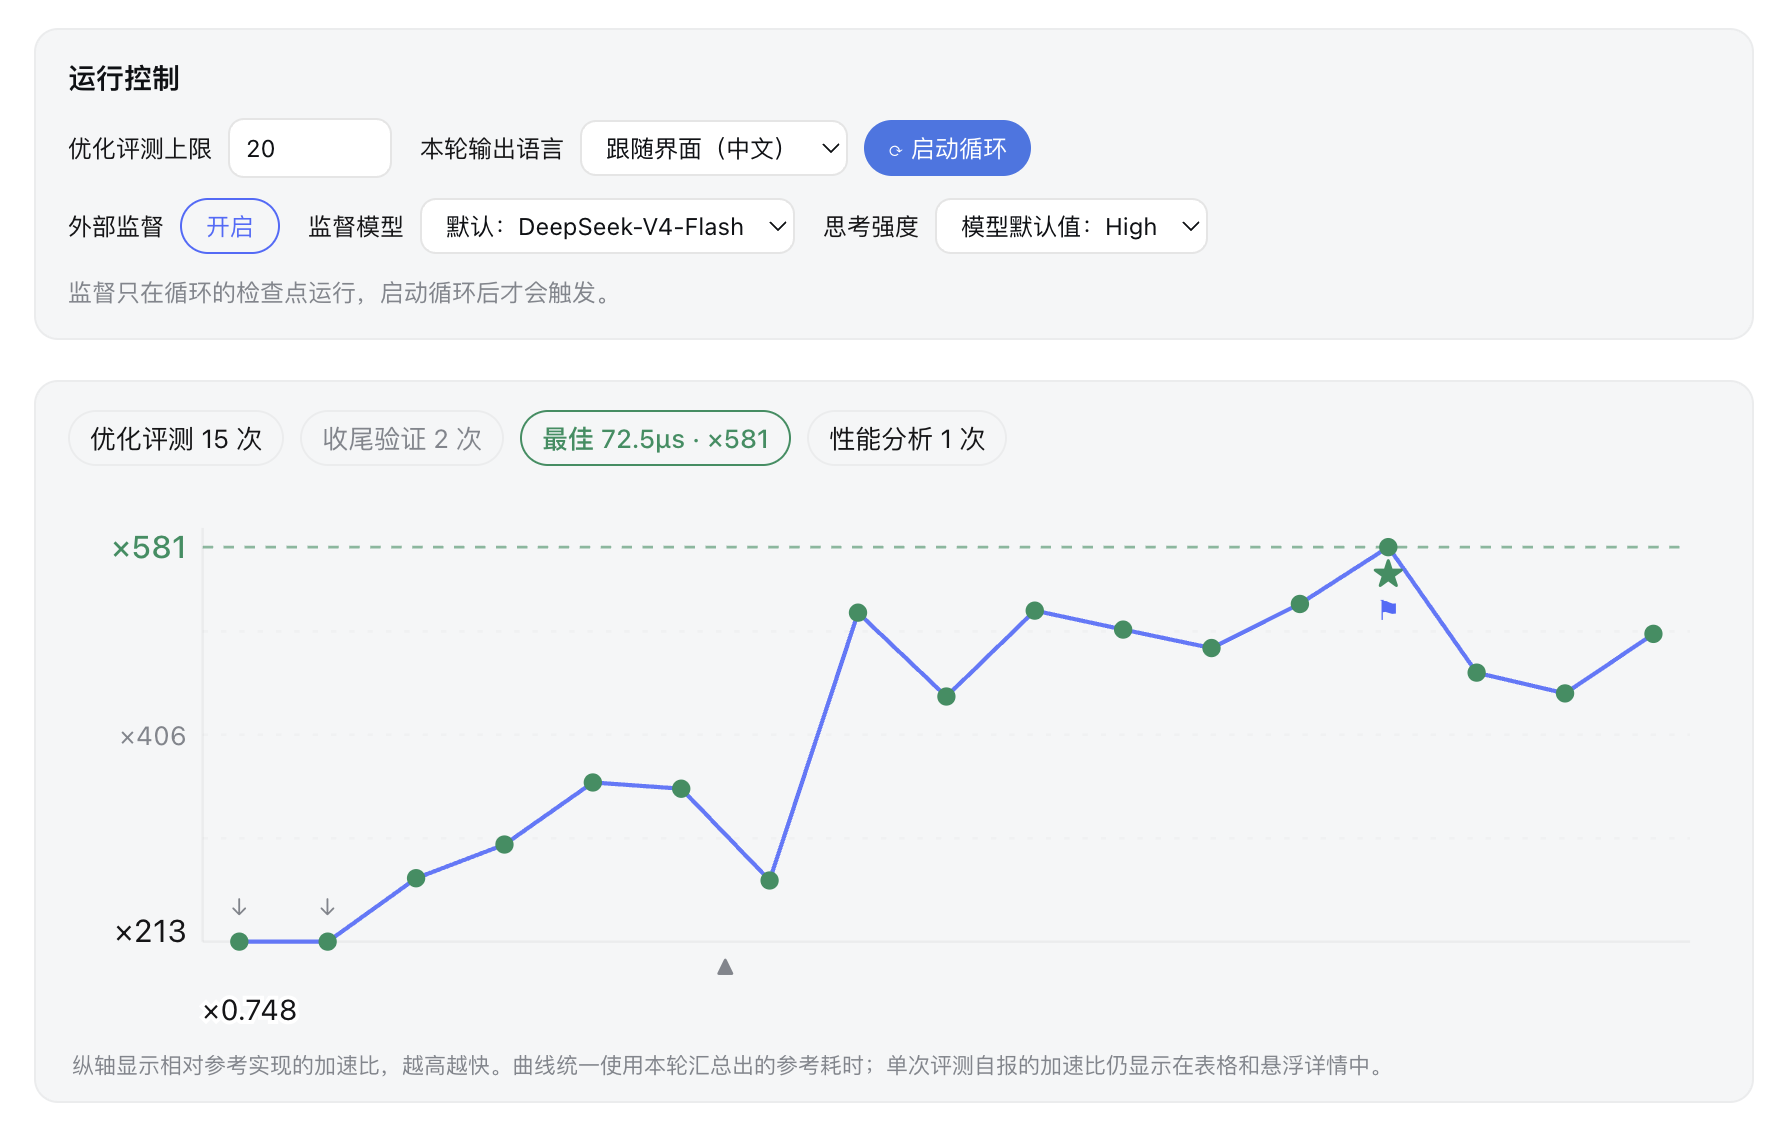
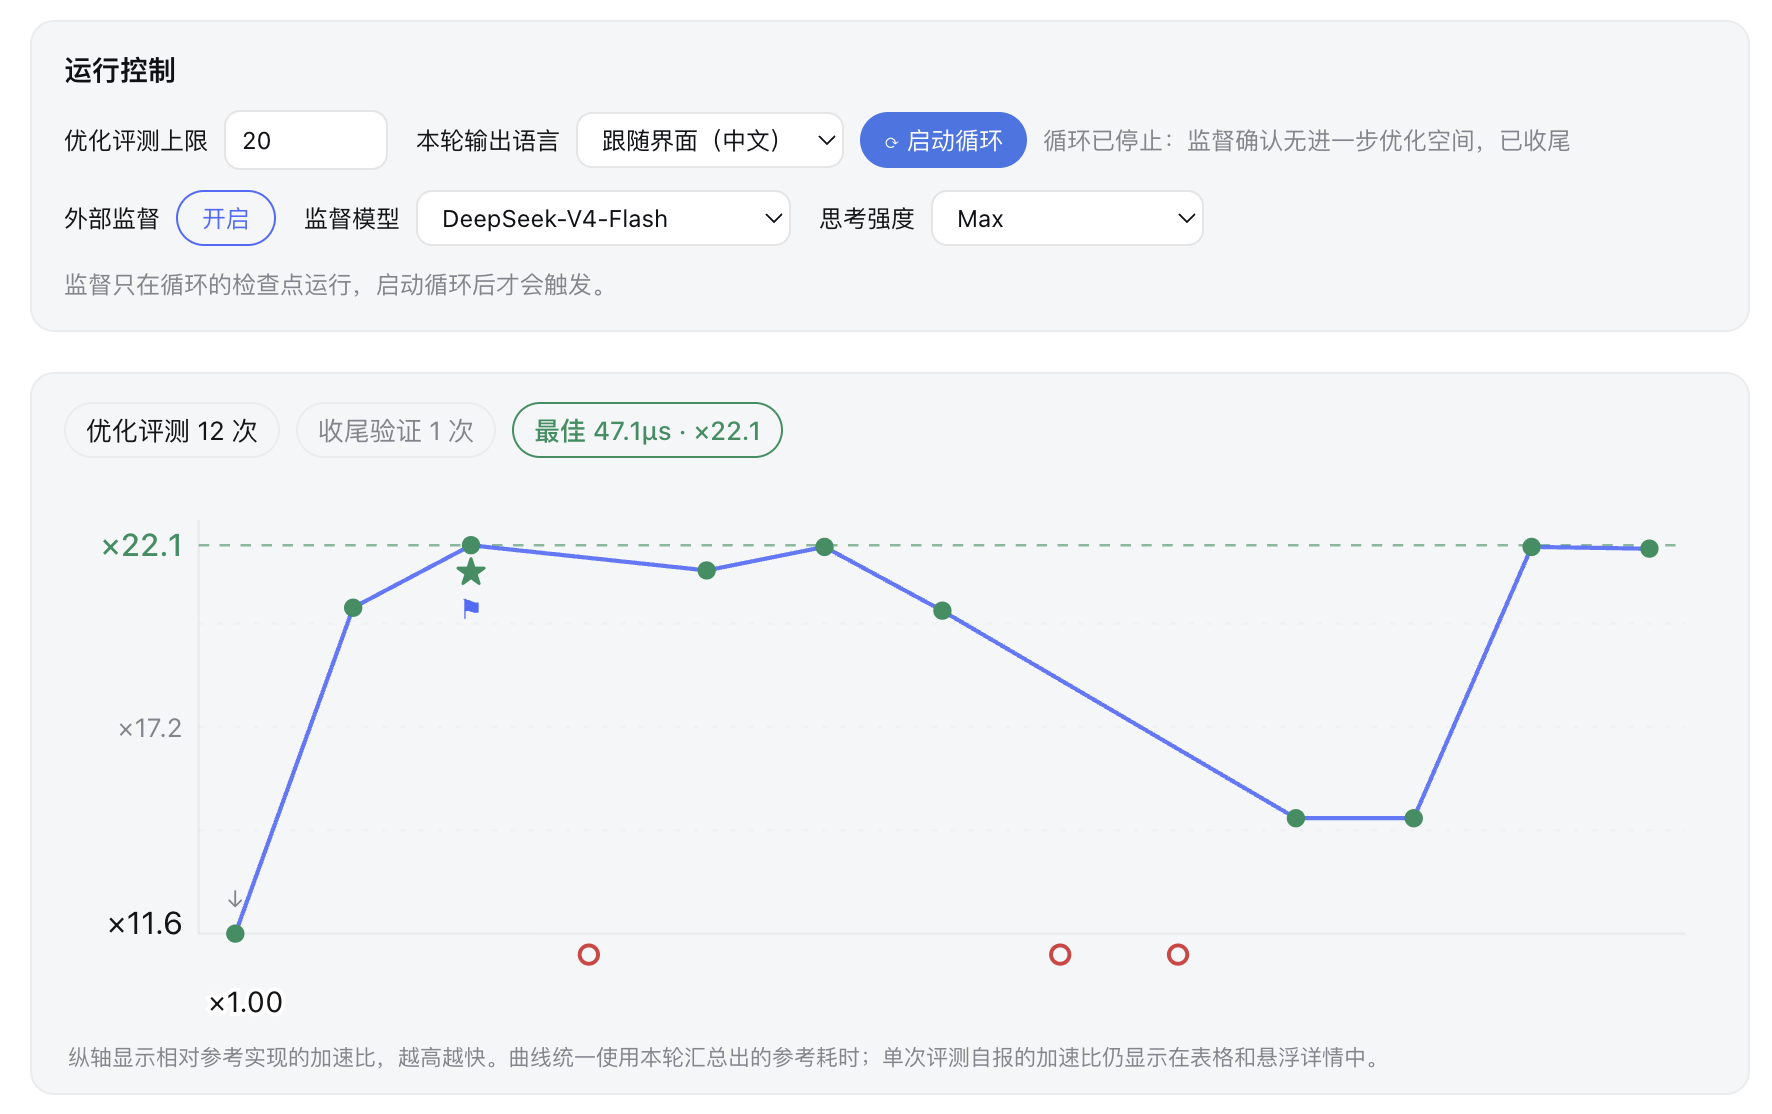
README: a hero the caption can account for — B200, frozen denominator, failures shown
The old one was ×581 on this laptop's CPU against a reference nobody could see,
which is the number our own evaluator lineage is built to distrust and the
opposite of what the page argues.

This run is on one NVIDIA B200, and every claim in the caption comes off the
panel's own projection: 12 optimization evaluations from ×1.00 (the starting
point is a verbatim copy of the reference, so the first point is exactly 1) to
×22.1, each dividing by the same reference latency frozen at 1.0400 ms, so
there is one denominator and no drift.

Three evaluations failed — a missing C compiler, missing ninja, an unset
CUDA_HOME, all from trying to build a CUDA extension inside an ephemeral
container — and the panel draws them below the axis instead of dropping them.
That is worth more on a front page than a clean curve.

The best point is starred and finalized, and the last row is the plugin's own
re-run of the recorded command: 47.3 µs against the 47.1 µs the run reported,
0.4% apart. The page claims the trajectory is self-reported and the final number
re-measured; the picture now shows both numbers.

The magnitude is a roofline story rather than a weak baseline: 134.2 MB of fp16
moved twice in 47.1 µs is 5.7 TB/s effective, while the reference walks the
tensor about twenty times through fp32 temporaries at 0.26 TB/s.

Supervision was on for this run (7 reviews), and the loop stopped because the
reviewer agreed there was no headroom left — which the run-control row says in
the shot.
[…]

diff --git a/README.md b/README.md
@@ -11,9 +11,9 @@
 <p align="center"><b>If you find this useful, please consider giving us a star 🌟</b></p>
 
 <p align="center">
-  <img src="assets/panel.png" width="820" alt="The plugin's evaluation tab after a finished run: a run-control card (evaluation budget, output language, supervision toggle, supervisor model, reasoning effort) above a speedup curve climbing from x0.748 to x581 over 15 optimization evaluations, with the best point starred, the finalized point flagged, one profiler mark and two marks for points clamped to the axis floor." />
+  <img src="assets/panel.png" width="820" alt="The plugin's evaluation tab after a finished run on one NVIDIA B200: run controls with supervision switched on, above a speedup curve climbing from x1.00 to x22.1 over 12 optimization evaluations, three failed attempts drawn below the axis, the best point starred and finalized, and a note that the loop stopped because the reviewer confirmed no headroom was left." />
   <br/>
-  <i>One finished run: 15 optimization evaluations from ×0.748 to ×581, one of them profiled, the honest best finalized.</i>
+  <i>RoPE <code>(4, 32, 4096, 128)</code> fp16 on one NVIDIA B200 — 12 evaluations from ×1.00 to ×22.1 against a reference frozen at 1.0400 ms, three failures shown rather than hidden, and a final number the plugin re-measured itself: 47.3 µs against the 47.1 µs the run had reported.</i>
 </p>
 
 ## News
